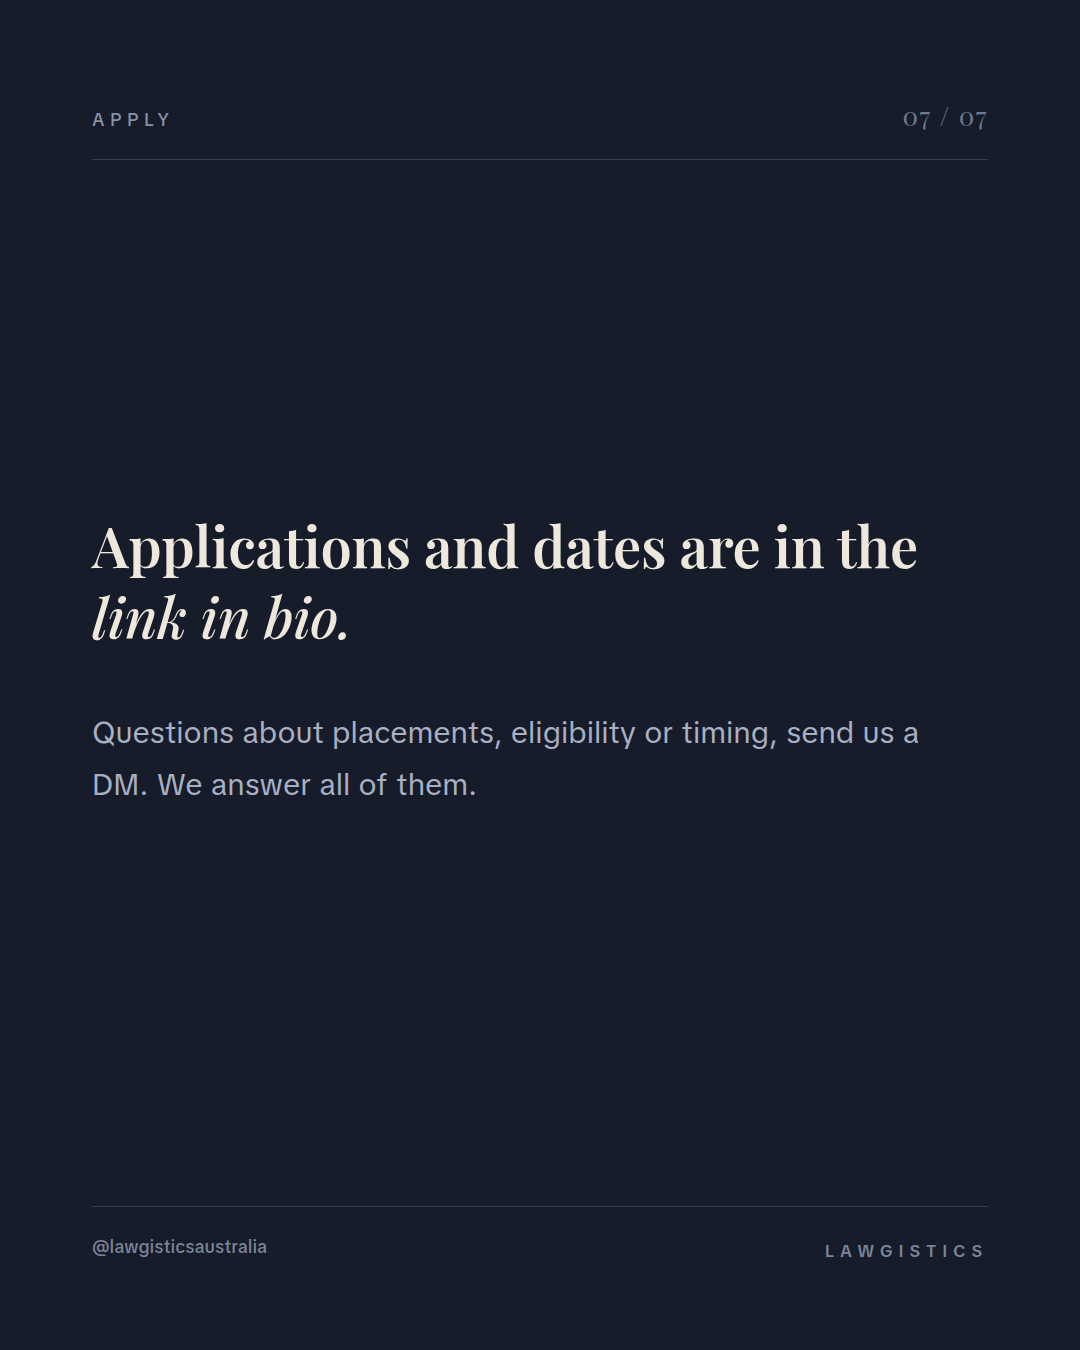
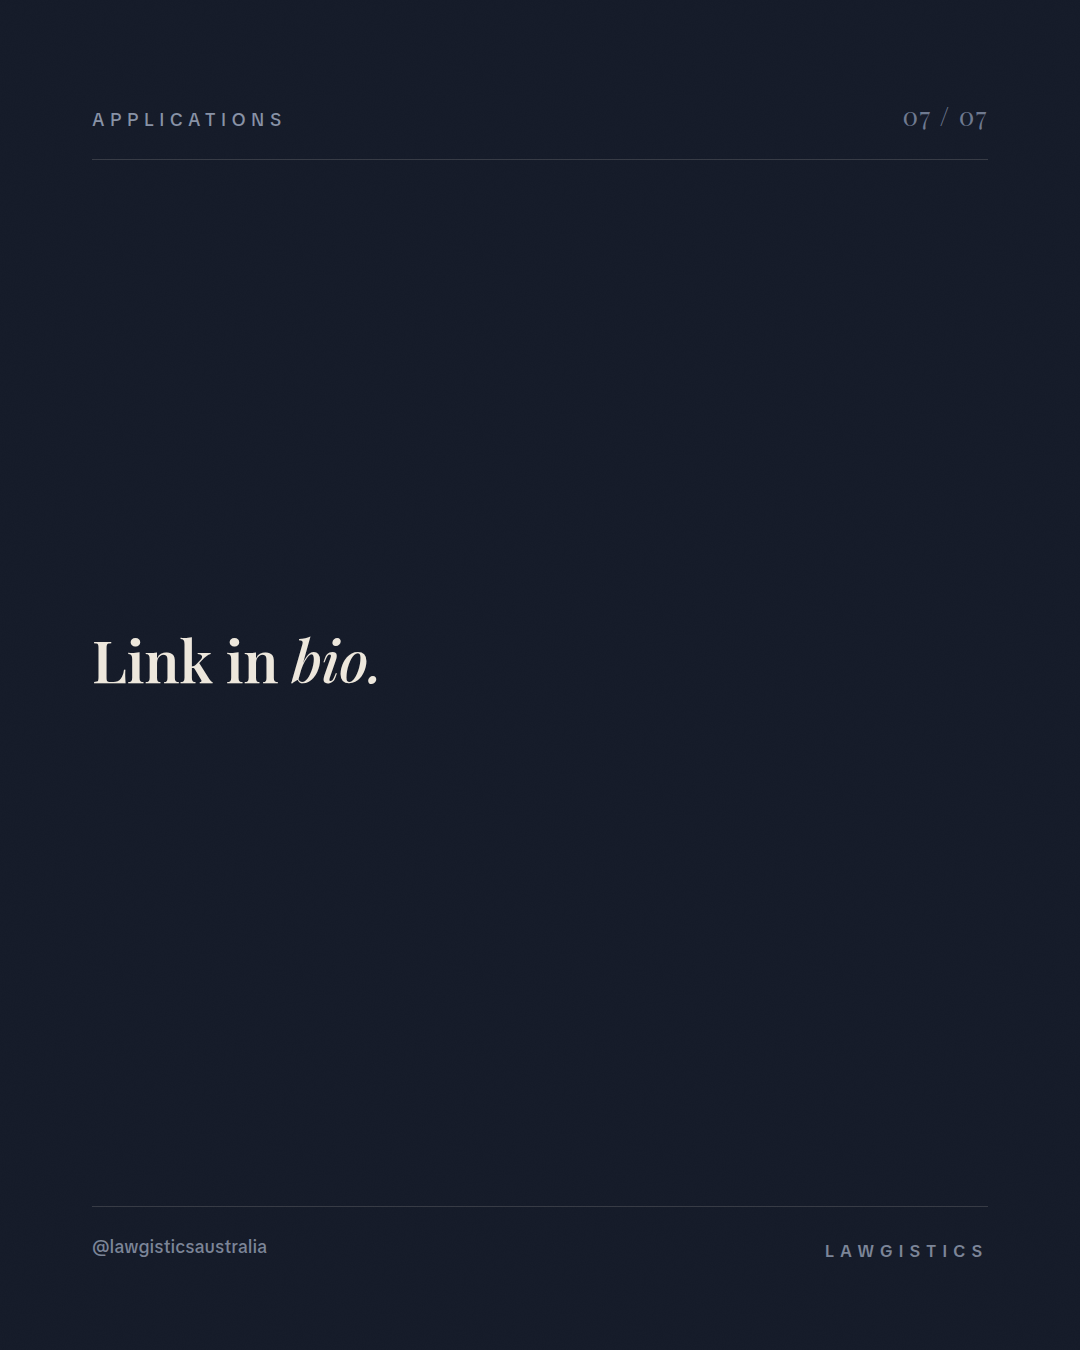
Rebuild pinned deck: status led, add testimonial slides as placeholders
- cut the pedagogy framing entirely, nobody applies to an internship to learn
- new hook, cohort is mooting, you are in a real courtroom
- new city slide carries the status and the FOMO
- close reduced to link in bio, three words, so the offer does not read needy
- slides 4 and 6 are designed testimonial slides with bracketed placeholder
  text and a DO NOT POST footer, pending real quotes from real interns
- CLAUDE.md: never fabricate testimonials, status over pedagogy, never desperate

Claude-Session: https://claude.ai/code/session_01JRjeUUcoRT5GxuTf3inkfN

Changed region(s): [[0.0917, 0.3733, 0.8556, 0.5911], [0.2139, 0.0622, 0.2444, 0.0933], [0.1528, 0.0622, 0.1833, 0.0933]]

diff --git a/tools/carousel/pinned.py b/tools/carousel/pinned.py
@@ -1,9 +1,15 @@
 #!/usr/bin/env python3
-"""Pinned post: Start Here. Evergreen explainer for @lawgisticsaustralia.
+"""Pinned post: evergreen. Status led, not education led.
 
-Deliberately carries no dates, no deadlines, no prices, so it never goes stale
-sitting at the top of the grid. Navy dominant, so it sits against the cream
-case posts in the checkerboard.
+Framing rules applied here:
+  - what is in it for them, stated as a gain, never as a shortage at home
+  - no pedagogy. Nobody applies to an internship to "learn". They apply to be
+    somewhere other people are not.
+  - not desperate. Fewer words, no over-explaining, no pleading CTA.
+  - carries no dates, prices or intake numbers, so it can stay pinned forever.
+
+SLIDES 4 AND 6 ARE PLACEHOLDER TESTIMONIALS. The bracketed text is deliberate
+so the deck cannot be posted before real quotes replace it.
 """
 import pathlib
 
@@ -53,30 +59,31 @@ body.light{background:#EDE7DC;color:#171D2B;}
 
 .statement{font-family:'Playfair',serif;font-weight:600;}
 .lg{font-size:72px;line-height:1.2;letter-spacing:-.006em;max-width:880px;}
-.md{font-size:56px;line-height:1.26;letter-spacing:-.004em;max-width:880px;}
+.md{font-size:58px;line-height:1.24;letter-spacing:-.004em;max-width:880px;}
 .statement em{font-style:italic;font-weight:500;}
 
 .sub{margin-top:54px;font-family:'Playfair',serif;font-style:italic;font-weight:400;
   font-size:34px;line-height:1.5;color:#A3ACC0;max-width:800px;}
 .light .sub{color:#6E6858;}
 
-.body{margin-top:56px;font-family:'TikTok Sans',sans-serif;font-size:30px;
-  line-height:1.72;color:#A9B0C2;max-width:840px;}
+.body{margin-top:52px;font-family:'TikTok Sans',sans-serif;font-size:31px;
+  line-height:1.7;color:#A9B0C2;max-width:830px;}
 .light .body{color:#4E4A3F;}
-.body p+p{margin-top:32px;}
+.body p+p{margin-top:30px;}
 .body b{font-weight:600;color:#EDE7DC;}
 .light .body b{color:#171D2B;}
 
-/* the three-line list on the what-you-do slide */
-.list{margin-top:56px;font-family:'TikTok Sans',sans-serif;font-size:31px;
-  line-height:1.5;color:#A9B0C2;max-width:840px;}
-.light .list{color:#4E4A3F;}
-.list div{padding:24px 0;border-bottom:1px solid rgba(237,231,220,.13);}
-.light .list div{border-bottom-color:rgba(23,29,43,.12);}
-.list div:first-child{padding-top:0;}
-.list div:last-child{border-bottom:none;padding-bottom:0;}
-.list b{font-weight:600;color:#EDE7DC;}
-.light .list b{color:#171D2B;}
+/* testimonial slides */
+.quote{position:relative;margin-left:8px;font-family:'Playfair',serif;
+  font-style:italic;font-weight:400;font-size:52px;line-height:1.36;
+  color:#EDE7DC;max-width:850px;}
+.light .quote{color:#171D2B;}
+.quote::before{content:'\\201C';position:absolute;left:-52px;top:-22px;
+  font-size:104px;line-height:1;color:#6E86C9;opacity:.55;}
+.light .quote::before{color:#3A5697;opacity:.45;}
+.attrib{margin-top:52px;margin-left:8px;font-family:'TikTok Sans',sans-serif;
+  font-size:24px;font-weight:500;letter-spacing:.02em;line-height:1.5;color:#8892A6;}
+.light .attrib{color:#8C8577;}
 
 .foot{margin-top:auto;display:flex;justify-content:space-between;align-items:flex-end;gap:50px;
   padding-top:26px;border-top:1px solid rgba(237,231,220,.16);}
@@ -103,43 +110,39 @@ def slide(n, kicker, inner, cite="", light=False, swipe=False):
 </div></body></html>"""
     (OUT / f"pin{n:02d}.html").write_text(html)
 
-slide(1, "Start Here",
-  '<div class="statement lg">Law school teaches you the law. It does not teach you <em>the room.</em></div>'
-  '<div class="sub">Legal internships for Australian law students. Kuala Lumpur.</div>',
+slide(1, "Kuala Lumpur",
+  '<div class="statement lg">Your cohort is doing a moot. You are in a <em>real courtroom.</em></div>'
+  '<div class="sub">Legal internships for Australian law students.</div>',
   swipe=True)
 
-slide(2, "Who We Are",
-  '<div class="statement md">Lawgistics places Australian law students in legal internships in <em>Malaysia.</em></div>'
-  '<div class="body"><p>Not a study tour. Not a conference. You are placed with lawyers, in a working legal environment, for the length of the program.</p></div>',
+slide(2, "The Program",
+  '<div class="statement md">Placed with practising lawyers, in a city that <em>runs on ambition.</em></div>'
+  '<div class="body"><p>Not a study tour. Not a conference. You are in the room where the work happens, for the length of the placement.</p></div>',
   light=True)
 
-slide(3, "What You Do",
-  '<div class="statement md">Three things you cannot get from a textbook.</div>'
-  '<div class="list">'
-  '<div><b>Courtroom access.</b> You sit in on real proceedings, not moots.</div>'
-  '<div><b>Practical experience.</b> Work alongside practising lawyers on live matters.</div>'
-  '<div><b>Career insight.</b> Ask the questions your lecturers cannot answer.</div>'
-  '</div>')
+slide(3, "The City",
+  '<div class="statement md">Court in the morning. <em>Kuala Lumpur</em> the rest of the time.</div>'
+  '<div class="body"><p>One of Asia&rsquo;s legal and financial hubs. Thirty degrees in February.</p>'
+  '<p>And a cohort of people who also decided <b>not to wait.</b></p></div>')
 
-slide(4, "What You Get",
-  '<div class="statement md">International legal exposure, years ahead of <em>your cohort.</em></div>'
-  '<div class="body"><p>The profession gets more cross border every year. Getting that on your record early is the kind of thing that compounds.</p>'
-  '<p>In interviews, in applications, and in what you are trusted with once you are hired.</p></div>',
-  light=True)
+# PLACEHOLDER. Replace with a real quote from a real intern before posting.
+slide(4, "In Their Words",
+  '<div class="quote">[Intern quote goes here. One or two sentences, in their own words, about something specific they saw or did.]</div>'
+  '<div class="attrib">[First name], [year] Law, [University]<br>[Intake]</div>',
+  light=True, cite="PLACEHOLDER, DO NOT POST")
 
-slide(5, "Why It Matters",
-  '<div class="statement md">Grad applications ask what you have <em>done.</em></div>'
-  '<div class="body"><p>Everyone applying has a transcript. Very few have watched a matter run in a foreign jurisdiction and can say something intelligent about it.</p>'
-  '<p>That is an interview answer nobody else in the room has.</p></div>')
+slide(5, "The Return",
+  '<div class="statement md">International exposure, years ahead of <em>your cohort.</em></div>'
+  '<div class="body"><p>It shows up in interviews, in applications, and in what you get trusted with once you are hired.</p></div>')
 
-slide(6, "Who It Is For",
-  '<div class="statement md">Students who want to be <em>ahead</em> of where they are.</div>'
-  '<div class="body"><p>Open from first year through to final year, and to recent graduates. No prior legal experience needed, and no connection in the profession required.</p></div>',
-  light=True)
+# PLACEHOLDER. Replace with a real quote from a real intern before posting.
+slide(6, "In Their Words",
+  '<div class="quote">[Second intern quote. Ideally about the city or the people, so it does a different job from the first.]</div>'
+  '<div class="attrib">[First name], [year] Law, [University]<br>[Intake]</div>',
+  light=True, cite="PLACEHOLDER, DO NOT POST")
 
-slide(7, "Apply",
-  '<div class="statement md">Applications and dates are in the <em>link in bio.</em></div>'
-  '<div class="body"><p>Questions about placements, eligibility or timing, send us a DM. We answer all of them.</p></div>',
+slide(7, "Applications",
+  '<div class="statement md">Link in <em>bio.</em></div>',
   cite="@lawgisticsaustralia")
 
 print("ok")

diff --git a/reports/assets/pinned/POSTING-KIT.md b/reports/assets/pinned/POSTING-KIT.md
@@ -1,43 +1,74 @@
-# Posting Kit, Start Here (pinned post)
+# Posting Kit, pinned post
 
 **Post:** 7 slides, `pinned-slide-01.png` to `-07.png`, upload in order. Navy dominant.
-**Purpose:** the post you pin to the top of the grid. Someone lands on the profile from a case post, reads this, and understands within one swipe that Lawgistics places Australian law students in legal internships in Kuala Lumpur.
+**Purpose:** the post you pin to the top of the grid. Someone lands from a case post, and within one swipe understands what Lawgistics is and wants in.
 
-**Why this rather than the intern program carousel:** the intern program one carries dates and a deadline, so it goes stale the moment applications close and a stale post at the top of a grid is worse than none. This one deliberately carries **no dates, no deadline, no price and no intake numbers**. It points at the link in bio for all of that, so you never have to re-cut it. Keep the intern program carousel as a normal timed post when a round opens.
+## ⚠ NOT POSTABLE YET
 
-## How to pin on Instagram
+**Slides 4 and 6 are placeholders.** They are designed and ready, but the text in them is bracketed instructions, and the footer of each reads PLACEHOLDER, DO NOT POST. Replace both with real quotes from real interns before this goes anywhere.
 
-Post it as a normal carousel first. Then go to the post, tap the three dots at the top right, tap **Pin to your profile**. You can pin up to three. If you pin this plus the 644-view "5 things that actually get you a legal role", the top row does both jobs: proof you are useful, and the offer.
+**I will not write the quotes.** Inventing testimonials from students who do not exist is misleading and deceptive conduct under the Australian Consumer Law, it is the easiest thing in the world for a competitor or an unhappy applicant to screenshot, and the audience is lawyers. Two real sentences beat six invented ones anyway, because real ones contain specifics nobody would think to make up.
+
+### How to get the quotes, fast
+
+Message past interns with this:
+
+> Hi [name], I am putting together a pinned post for the Lawgistics page and would love to include something from you. Two questions, one line each is plenty.
+> 1. What is one specific thing you saw or did that you would not have got at home?
+> 2. What surprised you about KL?
+> Happy to use first name, year level and uni, or keep it to first name only. Let me know what you are comfortable with.
+
+Three replies gives you two good quotes. Ask permission explicitly, and keep the message, that is your consent record.
+
+### What makes a quote work
+
+- **Specific beats glowing.** "I watched a bail application at 9am on my second day" is worth ten times "it was an amazing experience".
+- Keep it to roughly 25 words so it sits at full size on the slide.
+- Slide 4 should be about the work. Slide 6 about the city or the people, so they do different jobs.
+- Attribution: first name, year level, university, intake. Never a full name without asking.
+- Do not clean up their voice. The unpolished ones read as real, which is the entire point.
+
+Send me the quotes and I will typeset and re-render both slides.
+
+---
+
+## The deck
+
+| Slide | Kicker | Does |
+|---|---|---|
+| 01 | Kuala Lumpur | Hook. Your cohort is mooting, you are in a real courtroom. |
+| 02 | The Program | What it is, stated once, no over-explaining. |
+| 03 | The City | KL itself. Court in the morning, the city the rest of the time. |
+| 04 | In Their Words | **Testimonial, placeholder.** |
+| 05 | The Return | What it does for you afterwards. |
+| 06 | In Their Words | **Testimonial, placeholder.** |
+| 07 | Applications | Link in bio. Nothing else. |
+
+**Why it is built this way.** The old version explained and taught: courtroom access, practical experience, career insight, why Malaysia inherited the common law. Nobody applies to an internship to learn things. They apply to be somewhere other people are not. Every slide now states a gain or shows status, and the close is three words because a confident offer does not repeat itself.
+
+## How to pin
+
+Post as a normal carousel, then three dots at the top right of the post, **Pin to your profile**. Three slots available. Pin this plus "5 things that actually get you a legal role" (644 views, your best performer) so the top row does both jobs, proof you are useful next to the offer.
 
 ---
 
 ## Instagram caption (copy-paste)
 
-Law school teaches you the law. It does not teach you the room.
+Your cohort is doing a moot. You are in a real courtroom.
 
-If you have just landed here, this is what we do.
+Lawgistics places Australian law students in legal internships in Kuala Lumpur. You are placed with practising lawyers, in one of Asia's legal and financial hubs, in the room where the work actually happens.
 
-Lawgistics places Australian law students in legal internships in Kuala Lumpur. Not a study tour, not a conference. You are placed in a working legal environment with practising lawyers.
+Court in the morning. The city the rest of the time. Thirty degrees in February, and a cohort of people who also decided not to wait.
 
-Three things you get that a textbook cannot give you.
+What you take home is international legal exposure years ahead of everyone else in your year. It shows up in interviews. It shows up in applications. It shows up in what you get trusted with once you are hired.
 
-Courtroom access. You sit in on real proceedings.
+Open from first year through to final year, and to recent graduates.
 
-Practical experience. You work alongside lawyers on live matters.
-
-Career insight. You get to ask the questions your lecturers cannot answer, because they have not been in practice for fifteen years.
-
-What you get out of it. International legal exposure, years ahead of your cohort. The profession gets more cross border every year, and having that on your record early is the kind of thing that compounds. In interviews, in applications, and in what you get trusted with once you are hired.
-
-Why it matters for you. Every single person applying for a clerkship has a transcript. Almost none of them have watched a matter run in a foreign jurisdiction and can say something intelligent about it. That is an interview answer nobody else in the room has.
-
-Who it is for. Students who want to be ahead of where they are. Open from first year through to final year, and to recent graduates. No prior legal experience needed and no connection in the profession required.
-
-Applications, dates and eligibility are in the link in bio. Questions, send us a DM, we answer all of them.
+Applications are in the link in bio.
 
 #lawstudent #auslaw #lawschool #legalinternship #lawcareers #clerkship #kualalumpur #lawstudentlife #studyabroad #lawgistics
 
-**Alt text:** Navy and cream carousel introducing Lawgistics, which places Australian law students in legal internships in Kuala Lumpur, covering what interns do, why Malaysia, and who the program is for.
+**Alt text:** Navy and cream carousel introducing Lawgistics, which places Australian law students in legal internships in Kuala Lumpur, including intern testimonials.
 
 ---
 
@@ -45,29 +76,22 @@ Applications, dates and eligibility are in the link in bio. Questions, send us a
 
 Most law students will graduate having never been inside a courtroom that was not a moot.
 
-That is the gap Lawgistics exists to close. We place Australian law students in legal internships in Kuala Lumpur, working alongside practising lawyers and sitting in on real proceedings.
+Lawgistics places Australian law students in legal internships in Kuala Lumpur, working alongside practising lawyers in one of Asia's legal and financial hubs.
 
-What students get out of it is international legal exposure, years ahead of their cohort. The profession gets more cross border every year, and having that on the record early compounds.
+What students take home is international legal exposure years ahead of their cohort. The profession gets more cross border every year, and getting that on the record early compounds: in interviews, in applications, and in what a junior gets trusted with once they are hired.
 
-The practical case is simple. Every applicant for a clerkship has a transcript. Very few can speak, in an interview, about a matter they watched run in another jurisdiction and what it taught them about advocacy. That is a differentiator that does not require a distinction average to earn.
-
-Open to students in any year of an Australian law degree, and to recent graduates. No prior legal experience required.
+Open to students in any year of an Australian law degree, and to recent graduates.
 
 Details and applications via the link on our profile.
 
 ---
 
-## What to double check before you post
+## Before you post
 
-I wrote this from what is in the account brief, so every claim is one you have already made publicly. Two things to confirm in your own words, because I do not have the program documents:
+**Framing rule, set 9 Aug 2026.** Never position the program against a shortage at home. Do not write that clerkships are hard to get, that firms will not look at students until penultimate year, or that applicants do not need good marks. It reads as a consolation prize and invites the assumption that only students who could not get something else apply. Every slide states a gain. This applies to all future intern and program content.
 
-| Line | Where it appears | Check |
-|---|---|---|
-| "for the length of the program" (slide 2) | slide only | Fine as written, it avoids naming a duration. Swap in the real duration if you would rather be specific. |
-| "Work alongside practising lawyers on live matters" (slide 3) | slide + caption | Confirm this matches what placements actually involve. If interns observe rather than work on matters, tell me and I will change it to observation language. This is the one claim a prospective applicant could hold you to. |
+**No dates, prices or intake numbers anywhere in this deck**, deliberately, so it can stay pinned indefinitely. Everything time-sensitive lives behind the link in bio.
 
-**Framing rule, added at Niamh's direction 9 Aug 2026.** Never position the program against a shortage at home. Do not write that clerkships are hard to get, that firms will not look at you, or that you do not need good marks. It reads as a consolation prize and invites the assumption that only students who could not get something else apply. Every slide states a gain, not a shortfall. This applies to all future intern and program content, not just this post.
+**One claim to confirm before posting.** Slide 2 says you are "in the room where the work happens", and the caption says "placed with practising lawyers". If placements are more observational than that, tell me and I will adjust the wording. It is the one line a prospective applicant could hold you to.
 
-Everything else, courtroom access, career insight, open to all year levels, is from the brief.
-
-**Deliberately left out:** dates, deadlines, cost, number of places, named firms or courts. All of it points to the link in bio instead, which is what keeps the post pinnable indefinitely.
+Everything else in the deck is either from the account brief or is general public knowledge about Kuala Lumpur.

diff --git a/CLAUDE.md b/CLAUDE.md
@@ -65,6 +65,12 @@ Niamh's rule, 9 Aug 2026. Intern and program copy is **always** framed as what t
 
 Every line answers "what is in it for me", stated as an advantage: international exposure ahead of your cohort, courtroom access, something on the record that compounds. Aspirational, not remedial.
 
+**Status, not pedagogy.** Nobody applies to an internship in order to learn. They apply to be somewhere other people are not. Cut "you will learn", "you will develop skills", "three things a textbook cannot teach you". Write the experience and the standing it gives them instead.
+
+**Never desperate.** A confident offer is stated once and left alone. No pleading CTAs, no "we answer every DM", no repetition of the ask. The close on the pinned deck is three words.
+
+**NEVER invent testimonials.** Do not write a quote, review or endorsement attributed to a student, intern, firm or staff member unless Niamh has supplied the real words. Fabricated testimonials are misleading and deceptive conduct under the Australian Consumer Law and the audience is lawyers. Build the slide with bracketed placeholders and a "PLACEHOLDER, DO NOT POST" footer, then ask her for the real quote.
+
 ## Editorial rules
 
 - Verify every case against primary/secondary sources; never invent citations, parties, judges or outcomes. Flag unverified details honestly in the brief.

diff --git a/reports/POST-QUEUE.md b/reports/POST-QUEUE.md
@@ -9,7 +9,7 @@ One post per weekday. Fridays: The Big Case File (pop-culture legal breakdown).
 | Sat 1 Aug 2026 | Hanson v Faruqi, Full Court, s 18C appeal dismissed | reports/assets/2026-08-01/hanson-slide-*.png + dayincourt catch-up | POSTED ✅ |
 | Sat 1 Aug 2026 (post 2) | ACCC v JustAnswer [2026] FCA 871, "$2 that cost $10 million" + subscription trap ban | reports/assets/2026-08-01/justanswer-slide-*.png | READY |
 | Fri 7 Aug 2026 | Potter (a pseudonym) v The King [2026] HCA 25, covert recording lawful, High Court unanimous | reports/assets/2026-08-07/potter-slide-*.png | READY, lead post |
-| PIN | Start Here, evergreen explainer, 7 slides, no dates so it never goes stale | reports/assets/pinned/ | READY to post and pin |
+| PIN | Pinned post, evergreen, 7 slides, status led, no dates so it never goes stale | reports/assets/pinned/ | BLOCKED, slides 4 and 6 need real intern quotes |
 | Anytime | Intern program carousel, house style, navy | reports/assets/2026-08-07/intern-program/ | READY, needs dates + deadline |
 | Anytime | 5 more legal cases that sound fake, 7 slides | reports/assets/2026-08-07/sound-fake/ | READY, check no overlap with the original |
 | Anytime | The snail and the underpants, Donoghue + Grant, 9 slides | reports/assets/2026-08-07/negligence/ | READY, strongest student post |
